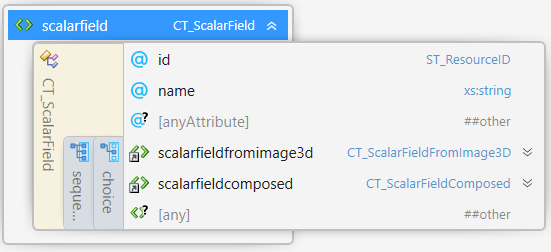
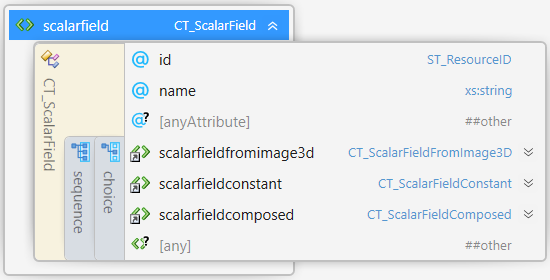
Add constant fields

Changed region(s): [[0.0, 0.0, 1.0, 1.0], [0.8345, 0.4167, 0.9273, 0.5], [0.8345, 0.3056, 0.9273, 0.3889]]

diff --git a/3MF Volumetric Extension.md b/3MF Volumetric Extension.md
@@ -220,7 +220,7 @@ Element type
 | id | ST\_ResourceID | required | | The resource id of this scalarfield resource |
 | name | xs:string | | | Field for a human readable name of this field |
 
-This container contains one of multiple specialization. This specification defines the \<scalarfieldfromimage3d> and \<scalarfieldcomposed>-elements. Later versions of this specification or third parties may provide alternative child elements for the \<scalarfield> element in different XML namespaces.
+This container contains one of multiple specialization. This specification defines the \<scalarfieldfromimage3d>,  \<scalarfieldconstant> and \<scalarfieldcomposed>-elements. Later versions of this specification or third parties may provide alternative child elements for the \<scalarfield> element in different XML namespaces.
 
 Whenever a language element of this specification refers to a \<scalarfield> element, this element provides an additional, optional transform-attribute, which determines the transformation of the coordinate space of said element into the coordinate system of the referred to element.
 
@@ -284,7 +284,20 @@ _Figure 3-3: filter attributes "nearest" (a) and "linear" (b). The consider that
 The values `V'` sampled from the \<image3d> are linearly scaled via `offsetvalue` and `scalevalue` giving a sampled value `V'' = V'*scalevalue + offsetvalue`
 
 
-## 3.3 Composed Scalar Field
+## 3.3 Constant Scalar Field
+
+Element type
+**\<scalarfieldconstant>**
+
+![scalarfieldconstant XML structure](images/element_scalarfieldconstant.png)
+
+| Name   | Type   | Use | Default| Annotation |
+| --- | --- | --- | --- | --- |
+| value | ST\_Number | required | | The constant value this scalar field evaluates to. |
+
+A \<scalarfieldconstant>-element encodes a constant function, i.e. when the \<scalarfieldconstant>-element is being sampled, it evaluates to the constant value given by its attribute `value`.
+
+## 3.4 Composed Scalar Field
 
 Element type
 **\<scalarfieldcomposed>**
@@ -345,7 +358,6 @@ Figure 4-1 shows example of the composition of two scalar fields by a \<scalarfi
 _Figure 4-1: Example of composition methods and parameters_
 ![Example of composition methods and parameters](images/composition.png)
 
-
 # Chapter 4. 3D Vector Fields
 
 3D Vector fields work analogously to scalar fields, however, each composition or sampling operation is being performed for the three components of the vector valued function: `f=(f1,f2,f3)`. Each of these vector-components could as well be described as a scalar field. However, when describing color values or vector valued properties, it is more natural to choose a vector-based representation.
@@ -364,7 +376,7 @@ Element type **\<vector3dfield>**
 | id | ST\_ResourceID | required | | The resource id of this vector3dfield resource |
 | name | xs:string | | | Field for a human readable name of this field |
 
-This container contains one of multiple specialization. This speficiation defines the \<vector3dfieldfromimage3d>- and \<vector3dfieldcomposed>-elements. Later versions of this specification might provide alternative child elements for the \<vector3dfield> element.
+This container contains one of multiple specialization. This speficiation defines the \<vector3dfieldfromimage3d>-, \<vector3dfieldconstant>- and \<vector3dfieldcomposed>-elements. Later versions of this specification might provide alternative child elements for the \<vector3dfield> element.
 
 Whenever a language element of this specification refers to a \<vector3dfield> element, this element provides an additional, optional transform-attribute, which determines the transformation of the coordinate space of said element into the coordinate system of the element referred to.
 
@@ -394,8 +406,22 @@ This element samples the channels "R", "G" and "B" from the image3d. Channels "R
 
 The attributes tilestyleu, tilestylev, tilestylew, and filter, valueoffset and valuescale work as they do for the scalar field from image3d for the individual vector components of this 3d vector field from image3d.
 
+## 4.3 Constant 3D Vector Field
 
-## 4.3 Composed 3D Vector Field
+Element type
+**\<vector3dfieldconstant>**
+
+![vector3dfieldconstant XML structure](images/element_vector3dfieldconstant.png)
+
+| Name   | Type   | Use | Default| Annotation |
+| --- | --- | --- | --- | --- |
+| valuex | ST\_Number | required | | The constant x-component that this 3d vector field evaluates to. |
+| valuey | ST\_Number | required | | The constant y-component that this 3d vector field evaluates to. |
+| valuez | ST\_Number | required | | The constant z-component that this 3d vector field evaluates to. |
+
+A \<vector3dfieldconstant>-element encodes a constant 3d vector valued function, i.e. when the \<vector3dfieldconstant>-element is being sampled, it evaluates to the constant vector `(valuex, valuey, valuez)`.
+
+## 4.4 Composed 3D Vector Field
 
 Element type
 **\<vector3dfieldcomposed>**
@@ -658,8 +684,10 @@ The property element CAN have an optional group of CT\_Metadata elements (\<meta
 ## 6.1. Evaluation Graph
 
 __Note__: The elements in this specification form an acyclic directed graph when evaluating the value of any volumedata-subelement.
-The evaluation of this graph can go directly via a \<scalarfieldfromimage3d> (or \<vector3dfromimage3d>) to an \<image3d>-element, or make a detour via (potentially) multiple \<scalarfieldcomposed> (or \<vector3dfieldcomposed>) to an \<image3d>-elements.
-In this sense, the \<scalarfieldfromimage3d> (or \<vector3dfromimage3d>) elements form standalone, atomic ways to define \<scalarlfield>s (or \<vector3dfield>s), whereas the \<scalarfieldcomposed> (or \<vector3dfieldcomposed>)-elements encode volumetric modeling operations, as described in [3.3 Composed Scalar Field](##3.3-composed-scalar-field) and [4.3 Composed 3D Vector Field](##4.3-composed-3d-vector-field).
+The evaluation order of this graph can end with an \<scalarfieldconstant> (or \<vector3dfieldconstant>), or with a \<scalarfieldfromimage3d> (or \<vector3dfieldfromimage3d>), which inturn evaluated an \<image3d>-element.
+Optionally, the evaluation graph can contain potentially multiple \<scalarfieldcomposed> (or \<vector3dfieldcomposed>)-elements.
+
+In this sense, the \<scalarfieldfromimage3d> (or \<vector3dfieldfromimage3d>) and \<scalarfieldconstant> (or \<vector3dfieldconstant>) elements form standalone, atomic ways to define \<scalarfield>s (or \<vector3dfield>s), whereas the \<scalarfieldcomposed> (or \<vector3dfieldcomposed>)-elements encode volumetric modeling operations, as described in [3.4 Composed Scalar Field](##3.4-composed-scalar-field) and [4.4 Composed 3D Vector Field](##4.4-composed-3d-vector-field).
 
 ## 6.2. Evaluation Process
 
@@ -767,6 +795,7 @@ xmlns:xml="http://www.w3.org/XML/1998/namespace" targetNamespace="http://schemas
 		<xs:sequence>
 			<xs:choice>
 				<xs:element ref="scalarfieldfromimage3d"/>
+				<xs:element ref="scalarfieldconstant"/>
 				<xs:element ref="scalarfieldcomposed"/>
 				<xs:any namespace="##other" processContents="lax"/>
 			</xs:choice>
@@ -807,10 +836,19 @@ xmlns:xml="http://www.w3.org/XML/1998/namespace" targetNamespace="http://schemas
 		<xs:anyAttribute namespace="##other" processContents="lax"/>
 	</xs:complexType>
 
+	<xs:complexType name="CT_ScalarFieldConstant">
+		<xs:sequence>
+			<xs:any namespace="##other" processContents="lax" minOccurs="0" maxOccurs="2147483647"/>
+		</xs:sequence>
+		<xs:attribute name="value" type="ST_Number" use="required"/>
+		<xs:anyAttribute namespace="##other" processContents="lax"/>
+	</xs:complexType>
+
 	<xs:complexType name="CT_Vector3DField">
 		<xs:sequence>
 			<xs:choice>
 				<xs:element ref="vector3dfieldfromimage3d"/>
+				<xs:element ref="vector3dfieldconstant"/>
 				<xs:element ref="vector3dfieldcomposed"/>
 				<xs:any namespace="##other" processContents="lax"/>
 			</xs:choice>
@@ -848,6 +886,16 @@ xmlns:xml="http://www.w3.org/XML/1998/namespace" targetNamespace="http://schemas
 		<xs:attribute name="transform2" type="ST_Matrix3D"/>
 		<xs:attribute name="transformmask" type="ST_Matrix3D"/>
 		<xs:attribute name="compositionspace" type="ST_CompositionSpace" default="raw"/>
+		<xs:anyAttribute namespace="##other" processContents="lax"/>
+	</xs:complexType>
+
+	<xs:complexType name="CT_Vector3DFieldConstant">
+		<xs:sequence>
+			<xs:any namespace="##other" processContents="lax" minOccurs="0" maxOccurs="2147483647"/>
+		</xs:sequence>
+		<xs:attribute name="valuex" type="ST_Number" use="required"/>
+		<xs:attribute name="valuey" type="ST_Number" use="required"/>
+		<xs:attribute name="valuez" type="ST_Number" use="required"/>
 		<xs:anyAttribute namespace="##other" processContents="lax"/>
 	</xs:complexType>
 
@@ -985,9 +1033,11 @@ xmlns:xml="http://www.w3.org/XML/1998/namespace" targetNamespace="http://schemas
 	<xs:element name="scalarfield" type="CT_ScalarField"/>
 	<xs:element name="scalarfieldfromimage3d" type="CT_ScalarFieldFromImage3D"/>
 	<xs:element name="scalarfieldcomposed" type="CT_ScalarFieldComposed"/>
+	<xs:element name="scalarfieldconstant" type="CT_ScalarFieldConstant"/>
 	<xs:element name="vector3dfield" type="CT_Vector3DField"/>
 	<xs:element name="vector3dfieldfromimage3d" type="CT_Vector3DFieldFromImage3D"/>
 	<xs:element name="vector3dfieldcomposed" type="CT_Vector3DFieldComposed"/>
+	<xs:element name="vector3dfieldconstant" type="CT_Vector3DFieldConstant"/>
 	<xs:element name="volumedata" type="CT_VolumeData"/>
 	<xs:element name="boundary" type="CT_Boundary"/>
 	<xs:element name="composite" type="CT_Composite"/>
